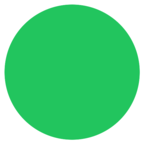
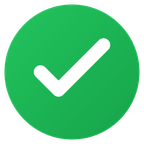
Add Firefox compatibility notice to onboarding modal
- Add bilingual Firefox notice in onboarding modal (English/Spanish)
- Inform users that voice features are in development for Firefox
- Recommend Chrome/Safari while Firefox support is being developed
- Update app icons with new versions

diff --git a/pages/index.tsx b/pages/index.tsx
@@ -626,6 +626,26 @@ export default function App() {
                 </div>
               </div>
 
+              {/* Firefox Notice */}
+              {typeof window !== 'undefined' && window.navigator.userAgent.toLowerCase().includes('firefox') && (
+                <div className="mb-4 sm:mb-6 bg-amber-50 border border-amber-200 rounded-lg p-3">
+                  <div className="flex items-start gap-2">
+                    <span className="text-amber-600 text-lg flex-shrink-0">⚠</span>
+                    <div className="text-left">
+                      <p className="text-sm font-medium text-amber-800 mb-1">
+                        {modalLanguage === 'es' ? 'Aviso para Firefox' : 'Firefox Notice'}
+                      </p>
+                      <p className="text-xs text-amber-700">
+                        {modalLanguage === 'es' 
+                          ? 'Las funciones de voz están actualmente en desarrollo para Firefox. Recomendamos usar Chrome o Safari mientras trabajamos en la compatibilidad completa con Firefox.'
+                          : 'Voice features are currently in development for Firefox. We recommend using Chrome or Safari while we work on full Firefox compatibility.'
+                        }
+                      </p>
+                    </div>
+                  </div>
+                </div>
+              )}
+
               {/* Header with icon - Mobile optimized */}
               <div className="mb-4 sm:mb-6">
                 <div className="w-12 h-12 sm:w-16 sm:h-16 bg-gray-100 rounded-full flex items-center justify-center mx-auto mb-3 sm:mb-4">
